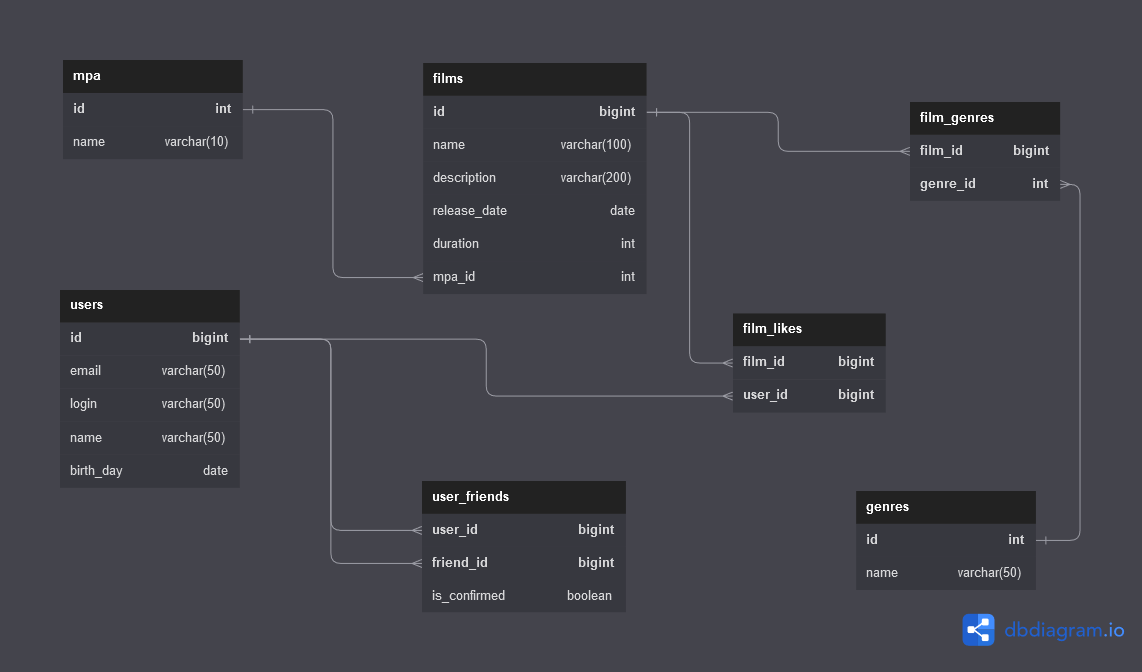
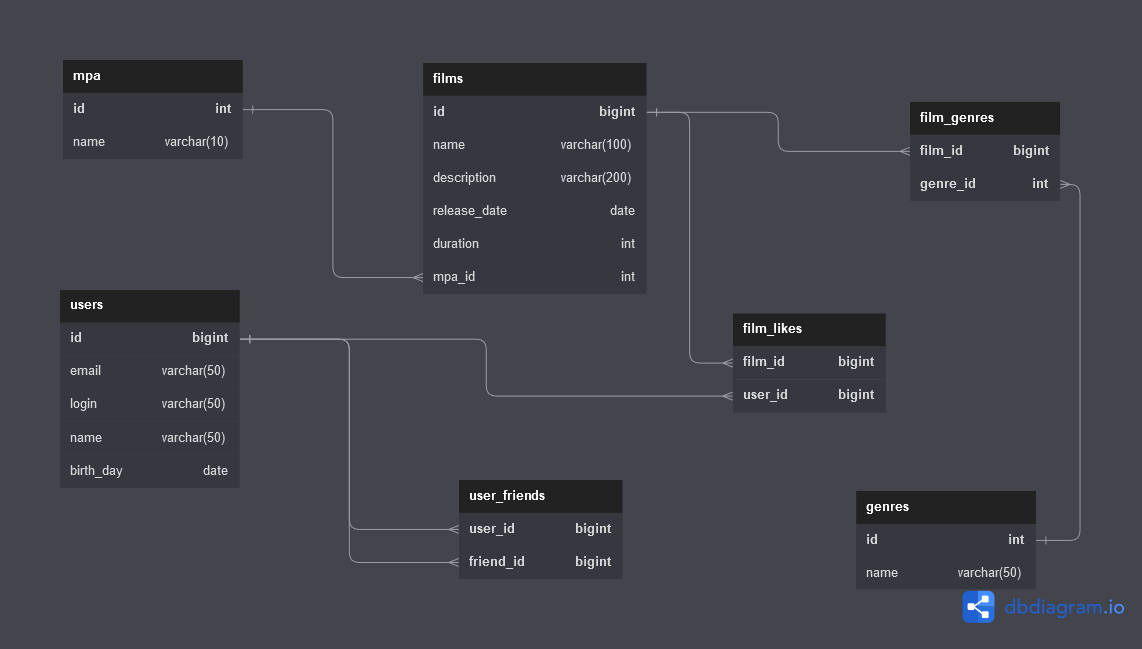
feat: add createUser in UserDbStorage

diff --git a/src/main/java/ru/yandex/practicum/filmorate/storage/InMemoryUserStorage.java b/src/main/java/ru/yandex/practicum/filmorate/storage/InMemoryUserStorage.java
@@ -1,64 +1,59 @@
-package ru.yandex.practicum.filmorate.storage.impl;
+package ru.yandex.practicum.filmorate.storage;
 
-import lombok.RequiredArgsConstructor;
-import org.springframework.context.annotation.Primary;
-import org.springframework.jdbc.core.JdbcTemplate;
 import org.springframework.stereotype.Component;
 import ru.yandex.practicum.filmorate.model.User;
 import ru.yandex.practicum.filmorate.storage.UserStorage;
 
+import java.util.ArrayList;
 import java.util.Collection;
+import java.util.HashMap;
 import java.util.List;
+import java.util.Map;
 import java.util.Optional;
 
 @Component
-@Primary
-@RequiredArgsConstructor
-public class UserDbStorage implements UserStorage {
+public class InMemoryUserStorage implements UserStorage {
 
-    private final JdbcTemplate jdbcTemplate;
+    private long nextId = 0;
+    private final Map<Long, User> users = new HashMap<>();
 
     @Override
     public List<User> getUsers() {
-        return null;
+        return new ArrayList<>(users.values());
     }
 
     @Override
     public Optional<User> getUserById(Long id) {
-        return Optional.empty();
+        return Optional.ofNullable(users.get(id));
     }
 
     @Override
     public User createUser(User user) {
-        String sqlQuery = "INSERT INTO users (email, login, name, birth_day) " +
-                "VALUES (?, ?, ?, ?)";
-
-        jdbcTemplate.update(sqlQuery,
-                user.getEmail(),
-                user.getLogin(),
-                user.getName(),
-                user.getBirthday());
-
+        user.setId(++nextId);
+        users.put(user.getId(), user);
         return user;
     }
 
     @Override
     public User updateUser(User user) {
-        return null;
+        users.put(user.getId(), user);
+        return user;
     }
 
     @Override
     public void addFriend(User user, User friend) {
-
+        user.addFriend(friend.getId());
+        friend.addFriend(user.getId());
     }
 
     @Override
     public void removeFriend(User user, User friend) {
-
+        user.removeFriend(friend.getId());
+        friend.removeFriend(user.getId());
     }
 
     @Override
     public Collection<Long> getFriends(User user) {
-        return null;
+        return user.getFriends();
     }
 }

diff --git a/src/main/java/ru/yandex/practicum/filmorate/storage/UserDbStorage.java b/src/main/java/ru/yandex/practicum/filmorate/storage/UserDbStorage.java
@@ -1,59 +1,64 @@
-package ru.yandex.practicum.filmorate.storage.impl;
+package ru.yandex.practicum.filmorate.storage;
 
+import lombok.RequiredArgsConstructor;
+import org.springframework.context.annotation.Primary;
+import org.springframework.jdbc.core.JdbcTemplate;
 import org.springframework.stereotype.Component;
 import ru.yandex.practicum.filmorate.model.User;
 import ru.yandex.practicum.filmorate.storage.UserStorage;
 
-import java.util.ArrayList;
 import java.util.Collection;
-import java.util.HashMap;
 import java.util.List;
-import java.util.Map;
 import java.util.Optional;
 
 @Component
-public class InMemoryUserStorage implements UserStorage {
+@Primary
+@RequiredArgsConstructor
+public class UserDbStorage implements UserStorage {
 
-    private long nextId = 0;
-    private final Map<Long, User> users = new HashMap<>();
+    private final JdbcTemplate jdbcTemplate;
 
     @Override
     public List<User> getUsers() {
-        return new ArrayList<>(users.values());
+        return null;
     }
 
     @Override
     public Optional<User> getUserById(Long id) {
-        return Optional.ofNullable(users.get(id));
+        return Optional.empty();
     }
 
     @Override
     public User createUser(User user) {
-        user.setId(++nextId);
-        users.put(user.getId(), user);
+        String sqlQuery = "INSERT INTO users (email, login, name, birth_day) " +
+                "VALUES (?, ?, ?, ?)";
+
+        jdbcTemplate.update(sqlQuery,
+                user.getEmail(),
+                user.getLogin(),
+                user.getName(),
+                user.getBirthday());
+
         return user;
     }
 
     @Override
     public User updateUser(User user) {
-        users.put(user.getId(), user);
-        return user;
+        return null;
     }
 
     @Override
     public void addFriend(User user, User friend) {
-        user.addFriend(friend.getId());
-        friend.addFriend(user.getId());
+
     }
 
     @Override
     public void removeFriend(User user, User friend) {
-        user.removeFriend(friend.getId());
-        friend.removeFriend(user.getId());
+
     }
 
     @Override
     public Collection<Long> getFriends(User user) {
-        return user.getFriends();
+        return null;
     }
 }

diff --git a/src/test/java/ru/yandex/practicum/filmorate/service/FilmServiceImplTest.java b/src/test/java/ru/yandex/practicum/filmorate/service/FilmServiceImplTest.java
@@ -9,7 +9,6 @@ import org.mockito.Mock;
 import org.mockito.junit.jupiter.MockitoExtension;
 import ru.yandex.practicum.filmorate.model.Film;
 import ru.yandex.practicum.filmorate.model.User;
-import ru.yandex.practicum.filmorate.service.impl.FilmServiceImpl;
 import ru.yandex.practicum.filmorate.storage.FilmStorage;
 import ru.yandex.practicum.filmorate.validator.NotFoundException;
 import ru.yandex.practicum.filmorate.validator.ValidationException;

diff --git a/src/test/java/ru/yandex/practicum/filmorate/service/UserServiceImplTest.java b/src/test/java/ru/yandex/practicum/filmorate/service/UserServiceImplTest.java
@@ -8,7 +8,6 @@ import org.mockito.InjectMocks;
 import org.mockito.Mock;
 import org.mockito.junit.jupiter.MockitoExtension;
 import ru.yandex.practicum.filmorate.model.User;
-import ru.yandex.practicum.filmorate.service.impl.UserServiceImpl;
 import ru.yandex.practicum.filmorate.storage.UserStorage;
 import ru.yandex.practicum.filmorate.validator.NotFoundException;
 import ru.yandex.practicum.filmorate.validator.ValidationException;

diff --git a/src/main/java/ru/yandex/practicum/filmorate/storage/InMemoryFilmStorage.java b/src/main/java/ru/yandex/practicum/filmorate/storage/InMemoryFilmStorage.java
@@ -1,4 +1,4 @@
-package ru.yandex.practicum.filmorate.storage.impl;
+package ru.yandex.practicum.filmorate.storage;
 
 import org.springframework.stereotype.Component;
 import ru.yandex.practicum.filmorate.model.Film;

diff --git a/src/main/java/ru/yandex/practicum/filmorate/service/FilmServiceImpl.java b/src/main/java/ru/yandex/practicum/filmorate/service/FilmServiceImpl.java
@@ -1,4 +1,4 @@
-package ru.yandex.practicum.filmorate.service.impl;
+package ru.yandex.practicum.filmorate.service;
 
 import lombok.RequiredArgsConstructor;
 import org.springframework.stereotype.Service;

diff --git a/src/main/java/ru/yandex/practicum/filmorate/service/UserServiceImpl.java b/src/main/java/ru/yandex/practicum/filmorate/service/UserServiceImpl.java
@@ -1,4 +1,4 @@
-package ru.yandex.practicum.filmorate.service.impl;
+package ru.yandex.practicum.filmorate.service;
 
 import lombok.RequiredArgsConstructor;
 import org.springframework.stereotype.Service;

diff --git a/src/main/java/ru/yandex/practicum/filmorate/storage/FilmDbStorage.java b/src/main/java/ru/yandex/practicum/filmorate/storage/FilmDbStorage.java
@@ -1,0 +1,4 @@
+package ru.yandex.practicum.filmorate.storage;
+
+public class FilmDbStorage {
+}

diff --git a/README.md b/README.md
@@ -51,7 +51,6 @@
   
     user_id — идентификатор пользователя (первичный ключ, внешний ключ - отсылает к таблице users);
     friend_id — идентификатор пользователя (первичный ключ, внешний ключ - отсылает к таблице users);
-    is_confirmed — дружба подтверждена (true / false);
 
 **Таблица film_likes**  
 Лайки фильмов: 
